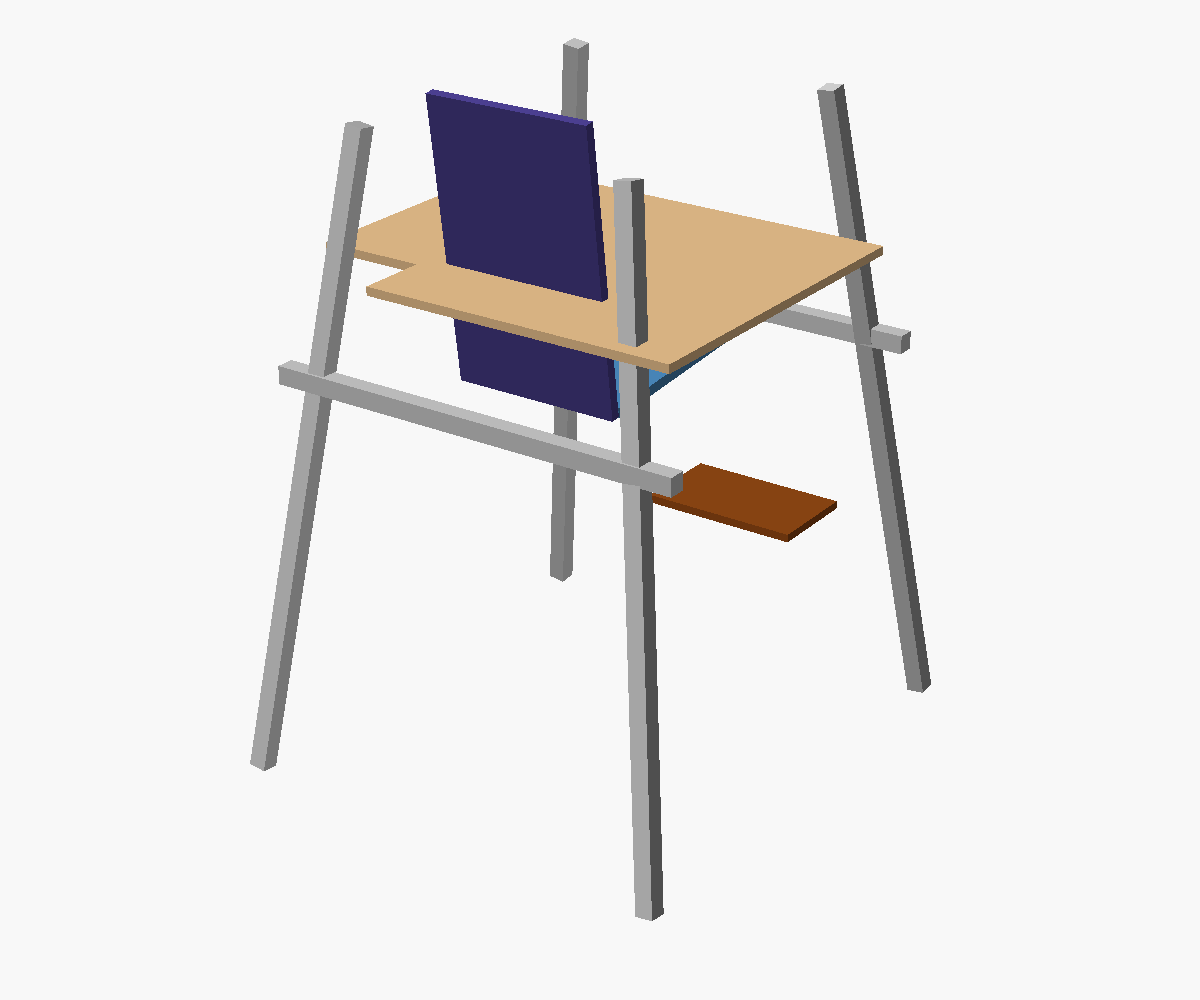
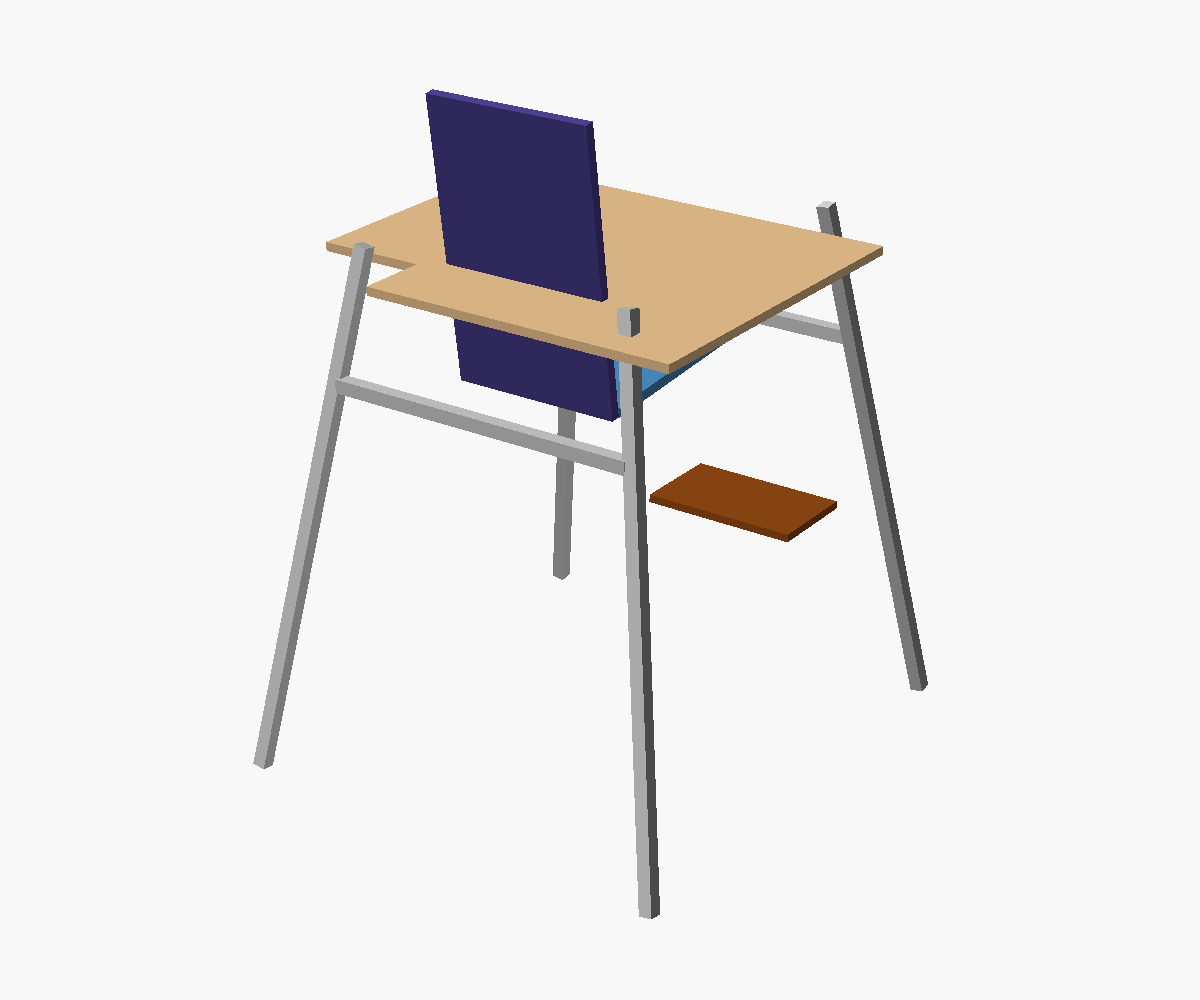
Add M5 captive-nut insert, drill jig, and cut-to-length tube BOM

Changed region(s): [[0.2158, 0.124, 0.5858, 0.93], [0.6475, 0.062, 0.7708, 0.682], [0.4625, 0.031, 0.4933, 0.124]]

diff --git a/adaptive-highchair/OFF_THE_SHELF.md b/adaptive-highchair/OFF_THE_SHELF.md
@@ -1,38 +1,39 @@
-# Off-the-shelf parts: Home Depot stock, no cutting, splayed legs
+# Off-the-shelf parts: Home Depot stock, splayed legs, cut to length
 
 Research date: 2026-11-24 (Camoufox). Constraint from the operator: material
-must be buyable at Home Depot, and the build should need **no cutting**.
-Legs splay outward for stability.
+must be buyable at Home Depot. Cutting is allowed: straight tube cuts,
+webbing cut to length with heat-sealed ends, and M5 through-bolts with
+captive inserts (no tapping). Legs splay outward for stability.
 
 ## Stock list (Home Depot)
 
 | Item | Product | Length / size | Price (listed) | Use |
 |---|---|---|---|---|
-| Legs | [Everbilt 1 in. x 3 ft. Aluminum Square Tube, model 6615](https://www.homedepot.com/p/Everbilt-1-in-x-3-ft-Aluminum-Square-Tube-6615/300918656) | 36" (914 mm), 1" square | ~$16.54 each | Four legs, used full length — **no cuts** |
-| Short rails | [LUKVIZO 6063 1 in. x 1 ft. Aluminum Square Tubing](https://www.homedepot.com/p/LUKVIZO-Series-6063-1-in-x-1-ft-Aluminum-Seamless-Square-Tubing-Structural-Metal-Pipe-1-Pack/332462119) | 12" (305 mm), 1" square | ~$60/1 ft (pricey but stocked) | Cross rails and brackets, used full length |
-| Optional larger stock | Everbilt 1 in. x 4 ft / 6 ft / 8 ft, or 3/4 in. x 3 ft / 4 ft | 48–96" | $22–$48 | Only if a longer uncut span is ever needed |
+| Legs | [Everbilt 3/4 in. x 3 ft. Aluminum Square Tube, model 6605](https://www.homedepot.com/p/Everbilt-3-4-in-x-3-ft-Aluminum-Square-Tube-6605/300918653) | 36" (914 mm), 3/4" square, 1/16" wall | ~$14.85 each | 4 legs cut to 760 mm — see `params.scad` |
+| Longer stock | [Everbilt 3/4 in. x 6 ft. Aluminum Square Tube, model 6607](https://www.homedepot.com/p/Everbilt-3-4-in-x-6-ft-Aluminum-Square-Tube-Metal-Stock-6607/340451342) | 72" (1829 mm) | ~$27.58 | Source for the 450 mm rails (one 6 ft tube yields 4 rails) |
 | Straps | [1 in. x 10 ft. 400 lb Cam Buckle Tie-Down](https://www.homedepot.com/b/Tools-Tie-Downs/Cam-Buckle-Lashing-Strap/N-5yc1vZc2b7) (Husky / Keeper / EVEREST) | 1" webbing, 10–15 ft | ~$8–$15 | Non-critical retaining straps only |
-| Fasteners | 1/4"-20 or M6 bolts, Nyloc nuts, washers, set screws | Aisle stock | — | Printed hub clamps |
+| Fasteners | M5 × 0.8 socket-head cap screws, 16 mm and 20 mm, Nyloc nuts, washers | Aisle stock | — | Through both tube walls; captive nut via `nut_insert.scad` |
+| Webbing (yardage) | [1 in. nylon webbing kit](https://www.walmart.com/search?q=1+inch+nylon+webbing+by+the+yard) or similar | 1" (25 mm) | ~$15 for 6 yd | For printed strap anchors; heat-seal cut ends |
 
-Home Depot's own search results confirm Everbilt 3/4 in. and 1 in. square tube
-is stocked in 3 ft, 4 ft, 6 ft and 8 ft lengths; 1 ft pieces are sold by
-LUKVIZO. The original 1" × 0.063" wall tube from M-D Building Products is
-listed as "can be telescoped."
+Home Depot stocks 3/4" and 1" square tube in 3 ft, 4 ft, 6 ft and 8 ft lengths;
+1 ft pieces are also sold (LUKVIZO). M-D Building Products 1" × 0.063" wall tube
+is listed as "can be telescoped."
 
-## No-cut frame concept
+## Frame concept
 
-- **Legs:** four full 3 ft tubes, tilted outward ~10° from vertical. No saw
-  cuts. The top of each leg sits above the tray and can carry the back panel
-  or a push handle.
+- **Legs:** four 760 mm pieces of 3/4" tube, tilted outward ~10° from
+  vertical. The top of each leg sits above the tray and can carry the back
+  panel or a push handle.
 - **Splay geometry (current `params.scad`):** foot footprint 640 × 700 mm,
   top of legs 400 × 460 mm, horizontal run ~120 mm per axis on each leg.
-  With 914.4 mm legs the vertical height is ~868 mm.
+  With 760 mm legs the vertical height is ~740 mm.
 - **Hubs:** printed clamp blocks with angled sockets receive the legs at the
-  splay angle. A radial set screw or through-bolt locks each tube; the printed
+  splay angle. M5 through-bolts lock each joint; a printed captive-nut
+  insert (`nut_insert.scad`) holds the Nyloc nut inside the tube. The printed
   angle removes any need to mitre the tube ends.
-- **Rails:** 1 ft tube pieces span between legs via printed collars. Because
-  the legs splay, the gap between them changes with height — adjustment is
-  done by sliding the collars, not by cutting rail stock.
+- **Rails:** 450 mm pieces of 3/4" tube span between legs. Because the legs
+  splay, the gap between them changes with height — adjustment is done by
+  sliding the collars, not by cutting rail stock.
 - **Size adjustment:** seat, footrest, back and tray brackets all slide along
   the legs and lock with a bolt. Growth changes are collar moves.
 - **Avoid:** T-slot extrusion and specialist fittings are out — they are not
@@ -50,13 +51,13 @@ listed as "can be telescoped."
 - Nylon webbing is ~3× stronger than polypropylene with better abrasion and
   shock absorption; polypropylene is lighter, UV/water resistant and low
   stretch ([National Webbing](https://www.nationalwebbing.com/nylon-webbing-articles/nylon-webbing/choosing-between-polypropylene-and-nylon-webbing-96.html)).
+- Cut webbing to length and heat-seal the ends with a lighter/hot knife.
 
 ## Safety / open items
 
 - Splayed legs increase tip resistance sideways but still need a stability
   test with a child-sized load at the tray and seat.
-- Printed hubs and set-screw joints are untested; proof-load before use.
-- Confirm 1 ft tube piece price/length at the local store, and whether 1"
-  square tube OD actually matches the printed socket (nominal vs. measured).
-- Choose the commercial harness, then cut nothing — only print slots sized
-  for 25 mm webbing.
+- Printed hubs, inserts and joints are untested; proof-load before use.
+- Confirm the 3/4" tube OD actually matches the printed socket (nominal vs.
+  measured) and that the captive-nut insert fits the ID.
+- Choose the commercial harness, then size print slots for 25 mm webbing.

diff --git a/adaptive-highchair/DESIGN_NOTES.md b/adaptive-highchair/DESIGN_NOTES.md
@@ -15,19 +15,19 @@
 | Tray | ~600 × 500 mm with body cut-out | TherAdapt 24 × 20", cut-out 17½ × 4" |
 | Restraint | 5-point harness + separate pelvic belt anchors | All mainstream + adaptive products |
 | Adjustment | tool-free sliding collars on legs | Rifton, OXO |
-| Footprint / splay | 640 × 700 mm base, 400 × 460 mm at top, legs ~10° outward | stability, no-cut stock lengths |
+| Footprint / splay | 640 × 700 mm base, 400 × 460 mm at top, legs ~10° outward | stability, cut-to-length stock |
 
 ## Architecture
 
-Revised 2026-11-24 after `OFF_THE_SHELF.md` research: the frame is **1" square
-aluminium tube from Home Depot**, used in full stock lengths with **no cutting**.
-All four legs splay outward for stability. Size changes happen by sliding
-printed collars along the legs, not by drilling or mitring tube.
+Revised 2026-11-24: the frame is **3/4" square aluminium tube from Home Depot**,
+cut to length (straight cuts only) with a printed miter jig. All four legs
+splay outward ~10° for stability. Joints use M5 through-bolts with Nyloc nuts
+captured by printed inserts (`nut_insert.scad`) — no tapping, no drilling
+beyond clearance holes.
 
-1. **Frame** — four full 3 ft (914 mm) Everbilt legs, splayed ~10°, plus 1 ft
-   rail pieces. Printed hubs with angled sockets set the splay; set screws or
-   ¼-20 through-bolts lock each joint. Footprint 640 × 700 mm, leg tops
-   400 × 460 mm, frame height ~868 mm.
+1. **Frame** — four 760 mm legs, splayed ~10°, plus 450 mm rail pieces.
+   Printed hubs with angled sockets set the splay; M5 through-bolts lock each
+   joint. Footprint 640 × 700 mm, leg tops 400 × 460 mm, frame height ~740 mm.
 2. **Seat module** — printed pan with slots for depth and width inserts;
    pivots on the frame for tilt.
 3. **Back module** — printed panel carrier with vertical slots for back
@@ -40,17 +40,17 @@ printed collars along the legs, not by drilling or mitring tube.
 
 ## Open questions
 
-- Confirm local stock/price of Everbilt 3 ft and LUKVIZO 1 ft 1" square tube.
+- Confirm local stock/price of Everbilt 3/4" 3 ft and 6 ft 1/16" wall tube.
 - Which commercial 5-point harness to design the anchors around (25 mm webbing).
 - Target growth range: 6–36 months only, or extend to Rifton-style paediatric
   sizing?
 - Folding/stacking needed, or static frame acceptable?
-- Required proof-load factor for T-slot joints and printed clamp plates.
+- Required proof-load factor for M5 joints and printed clamp plates.
 - Print material: PETG for brackets vs. PA/GF for load-bearing clamps.
 
 ## Next steps
 
 - Model the printed angled hub and validate the splay angle against a real
-  1" tube sample.
+  3/4" tube sample.
 - Add the slotted tilt plate and validate adjustment ranges in OpenSCAD.
-- Prototype one clamp and test fit before printing the full set.
+- Prototype one nut insert + drill jig and test fit before printing the full set.

diff --git a/adaptive-highchair/BOM.md b/adaptive-highchair/BOM.md
@@ -1,0 +1,34 @@
+# adaptive-highchair — non-printed bill of materials
+
+All dimensions in mm unless noted. Tolerances are nominal; measure the actual
+stock before cutting.
+
+| # | Item | Spec | Qty | Notes |
+|---|---|---|---|---|
+| 1 | Aluminium square tube | 3/4" (19.05) square, 1/16" (1.59) wall, 6063 | 4 legs @ 760; 4 rail pieces @ ~450 | Straight cuts only; hacksaw + printed miter jig. Deburr cut ends. Lengths in `params.scad` |
+| 2 | Nylon webbing | 1" (25 mm) wide | ~6 yd (5.5 m), or one finished 5-point harness | Cut to length, heat-seal ends with a lighter/hot knife. Use a commercial harness for the actual restraint |
+| 3 | Screws | **M5 × 0.8**, socket-head cap, 16 mm and 20 mm | ~20 with Nyloc nuts + washers | M5 clearance holes (5.2 mm) through both tube walls; a printed captive-nut insert (`nut_insert.scad`) holds the nut inside the tube. No tapping |
+
+## Why M5
+
+- 1/16" wall gives only ~1.6 mm of thread engagement per wall, so tapping
+  directly into the tube is not reliable.
+- Structural joints use **M5 clearance holes (5.2 mm) through both walls
+  with a Nyloc nut**. The drill position is set with `drill_jig.scad`.
+- The nut is held captive inside the tube by `nut_insert.scad`, which slides
+  into the tube end and aligns with the drilled hole; the hex pocket stops
+  the nut rotating.
+- M5 is widely stocked, and 5 mm holes leave enough material in a printed
+  bracket around 3/4" tube.
+
+## Printed parts that are part of the BOM
+
+- `nut_insert.scad` — captive M5 nut insert for 3/4" tube.
+- `drill_jig.scad` — drill guide that aligns the hole with the insert.
+
+## Tools allowed by the current plan
+
+- Hacksaw / miter saw for straight tube cuts
+- File or sandpaper to deburr
+- Drill + printed drill jig
+- Scissors/knife + heat source for webbing ends

diff --git a/adaptive-highchair/README.md b/adaptive-highchair/README.md
@@ -14,8 +14,11 @@ off-the-shelf tube/wood stock, rather than a fully printed chair.
 - `RESEARCH.md` — commercial product specs and extracted design inputs
 - `OFF_THE_SHELF.md` — frame hardware, size-adjustment parts, strap materials
 - `DESIGN_NOTES.md` — requirements and planned architecture
+- `BOM.md` — non-printed parts (3/4" tube, 1" webbing, M5 screws) and tools
 - `params.scad` — all design dimensions (mm), edit this first
 - `adaptive-highchair.scad` — concept geometry; `include`s `params.scad`
+- `nut_insert.scad` — captive M5 nut insert for 3/4" tube (no tapping)
+- `drill_jig.scad` — printed drill guide for the insert
 - `render.sh` — regenerates `preview.png` from the `.scad`
 
 ![Concept blockout](preview.png)
